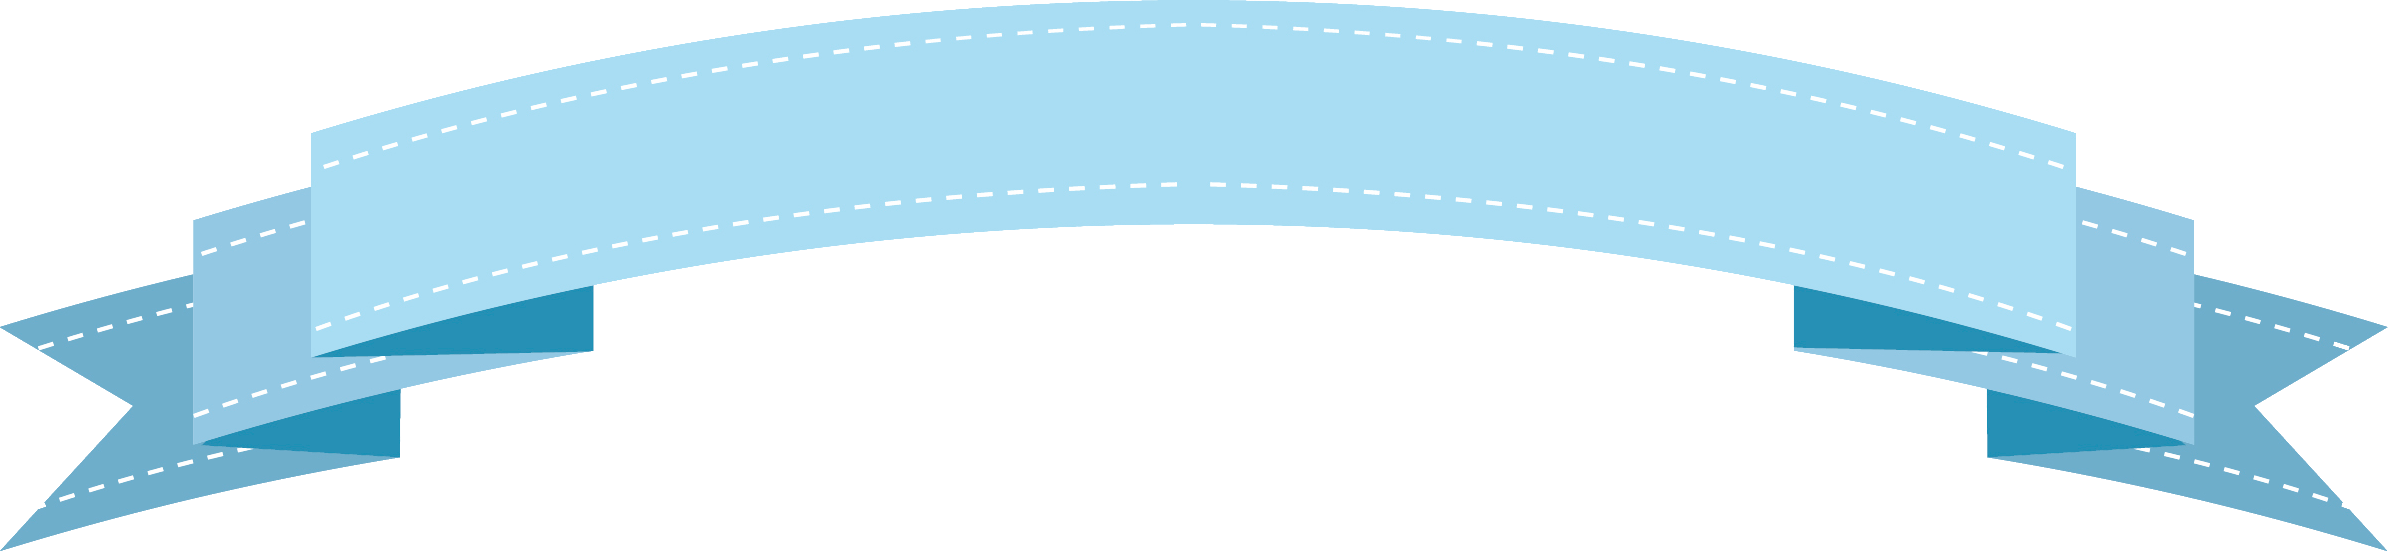
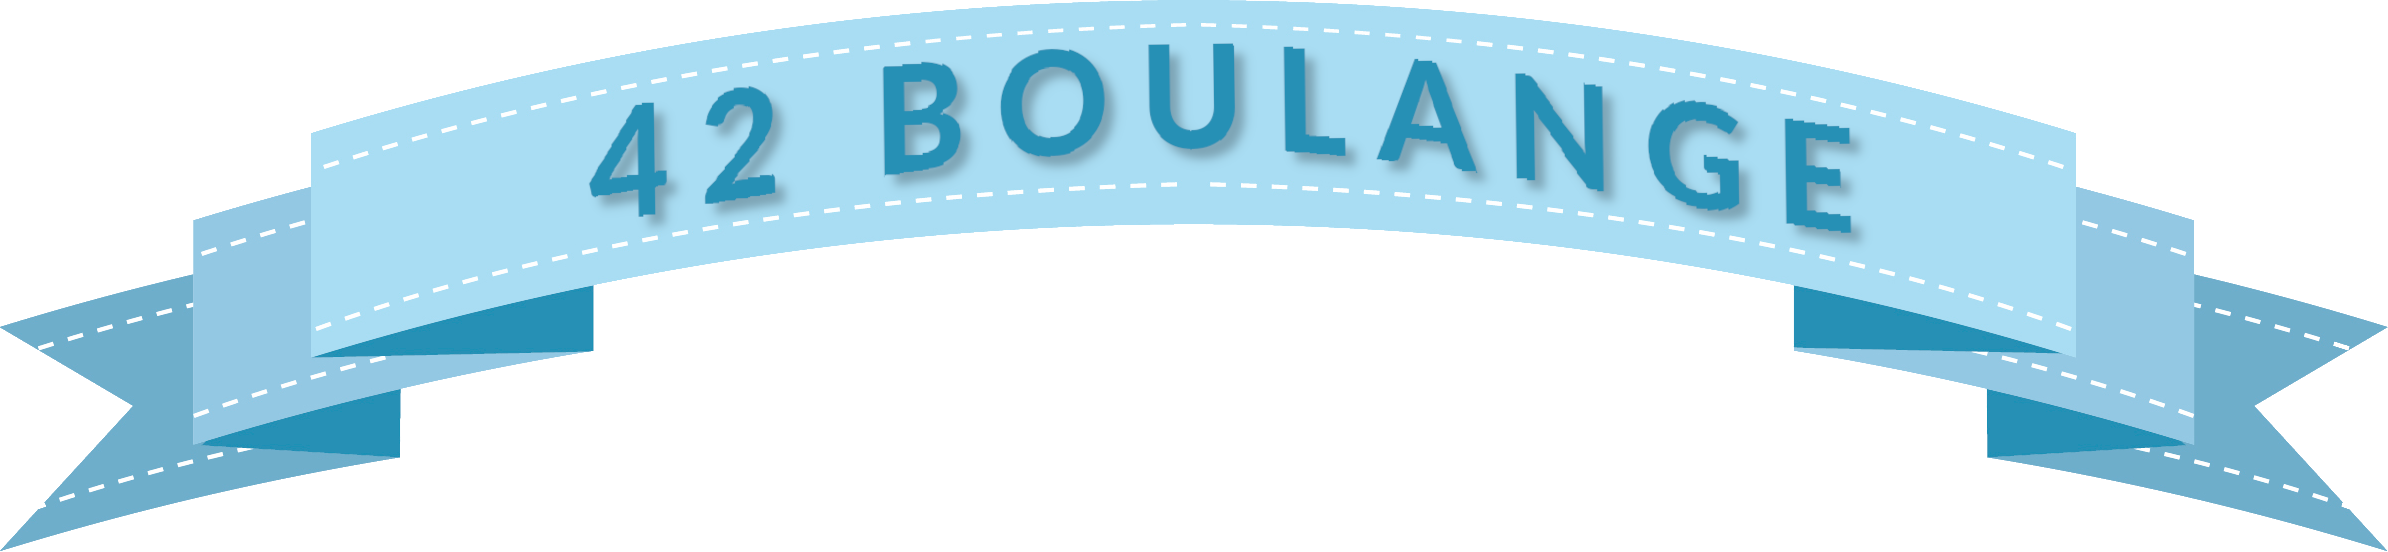
modif header

Changed region(s): [[0.3719, 0.0616, 0.8057, 0.4312], [0.2479, 0.154, 0.3409, 0.4004]]

diff --git a/sections/inventaire.html b/sections/inventaire.html
@@ -17,9 +17,8 @@
 
 		<div class="banner">
 			<a href="../boulangerie.html">
-				<img href="../boulangerie.html" class="bann title" src="../img/txt-arround.svg" alt="BANNER TITLE">
+				<img class="bann blue" src="../img/banner-blue.png" alt="BANNER">
 			</a>
-			<img class="bann blue" src="../img/banner-blue.png" alt="BANNER">
 		</div>
 
 		<div class="boulangerie pal">

diff --git a/sections/pal.html b/sections/pal.html
@@ -19,9 +19,8 @@
 
 		<div class="banner">
 			<a href="../boulangerie.html">
-				<img href="../boulangerie.html" class="bann title" src="../img/txt-arround.svg" alt="BANNER TITLE">
+				<img class="bann blue" src="../img/banner-blue.png" alt="BANNER">
 			</a>
-			<img class="bann blue" src="../img/banner-blue.png" alt="BANNER">
 		</div>
 
 		<div class="boulangerie pal">

diff --git a/boulangerie.html b/boulangerie.html
@@ -21,10 +21,9 @@
 
 		<div class="banner">
 			<a href="boulangerie.html">
-				<img href="boulangerie.html" class="bann title" src="img/txt-arround.svg" alt="BANNER TITLE">
+				<img class="bann blue" src="img/banner-blue.png" alt="BANNER">
 			</a>
 
-			<img class="bann blue" src="img/banner-blue.png" alt="BANNER">
 		</div>
 
 		<div class="boulangerie pal">

diff --git a/style.css b/style.css
@@ -29,7 +29,7 @@ body {
 }
 
 h1 {
-	margin: 10vw;
+	margin: 10vw 0 0 0;
 	font-size: 3vw;
 	text-justify: center;
 	text-align: center;

diff --git a/style/pal.css b/style/pal.css
@@ -13,7 +13,7 @@ label, .reponse {
 
 input {
 	width: 25vw;
-	height: 5vh;
+	height: 3vh;
 	padding: 1vw;
 
 	border-radius: 1vw;
